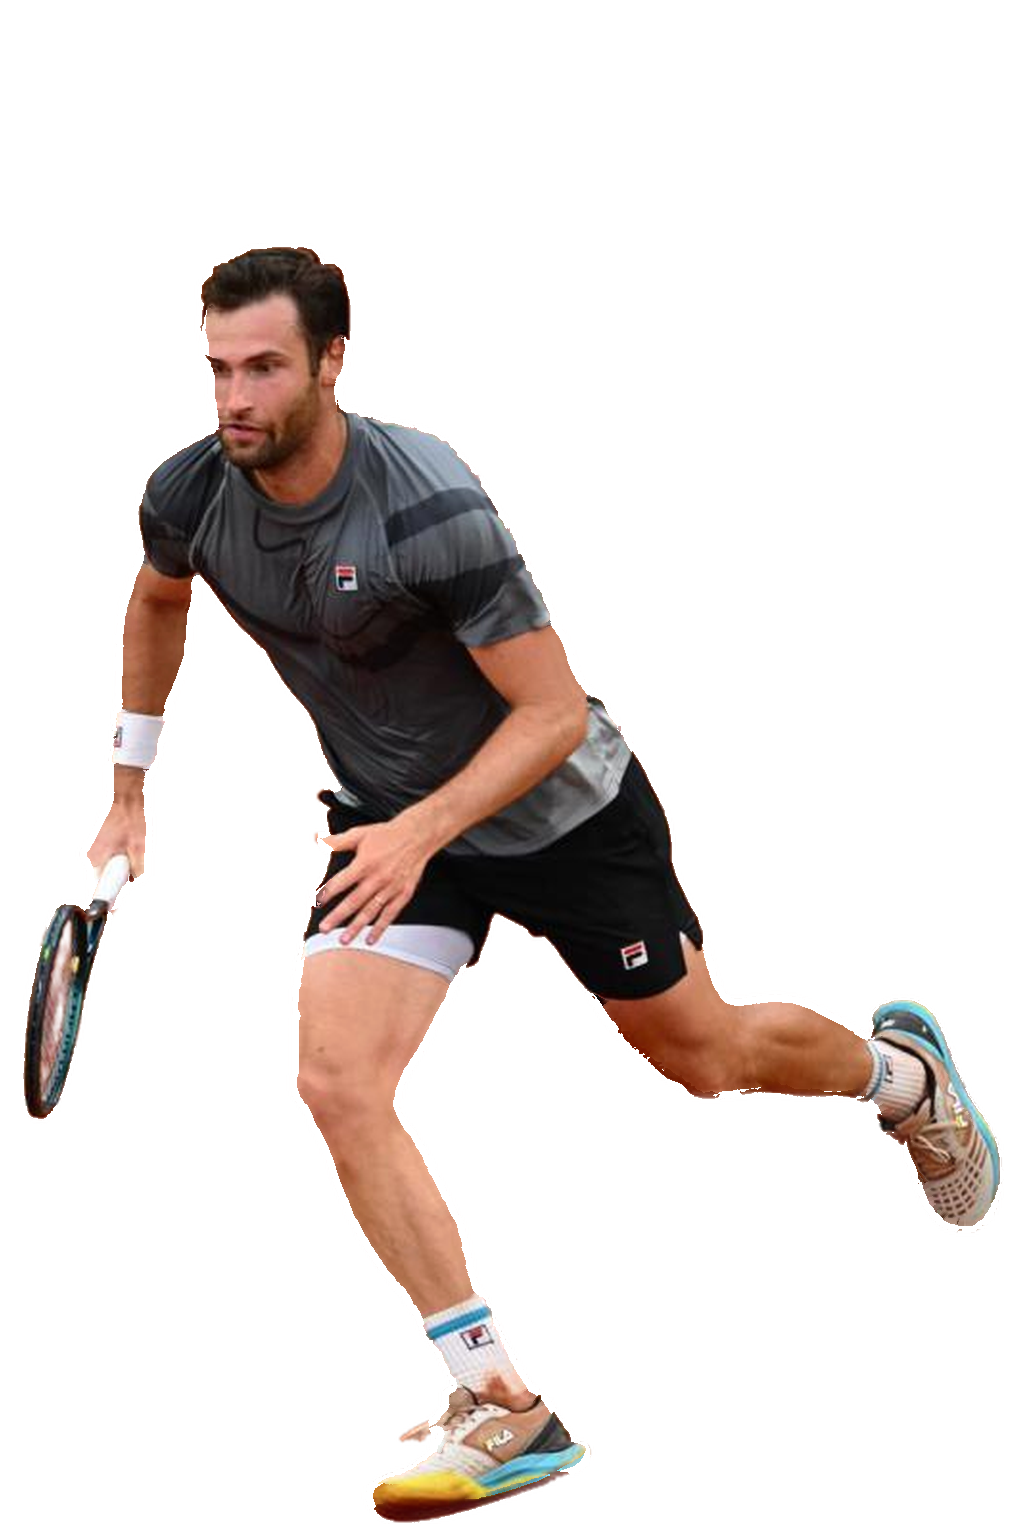
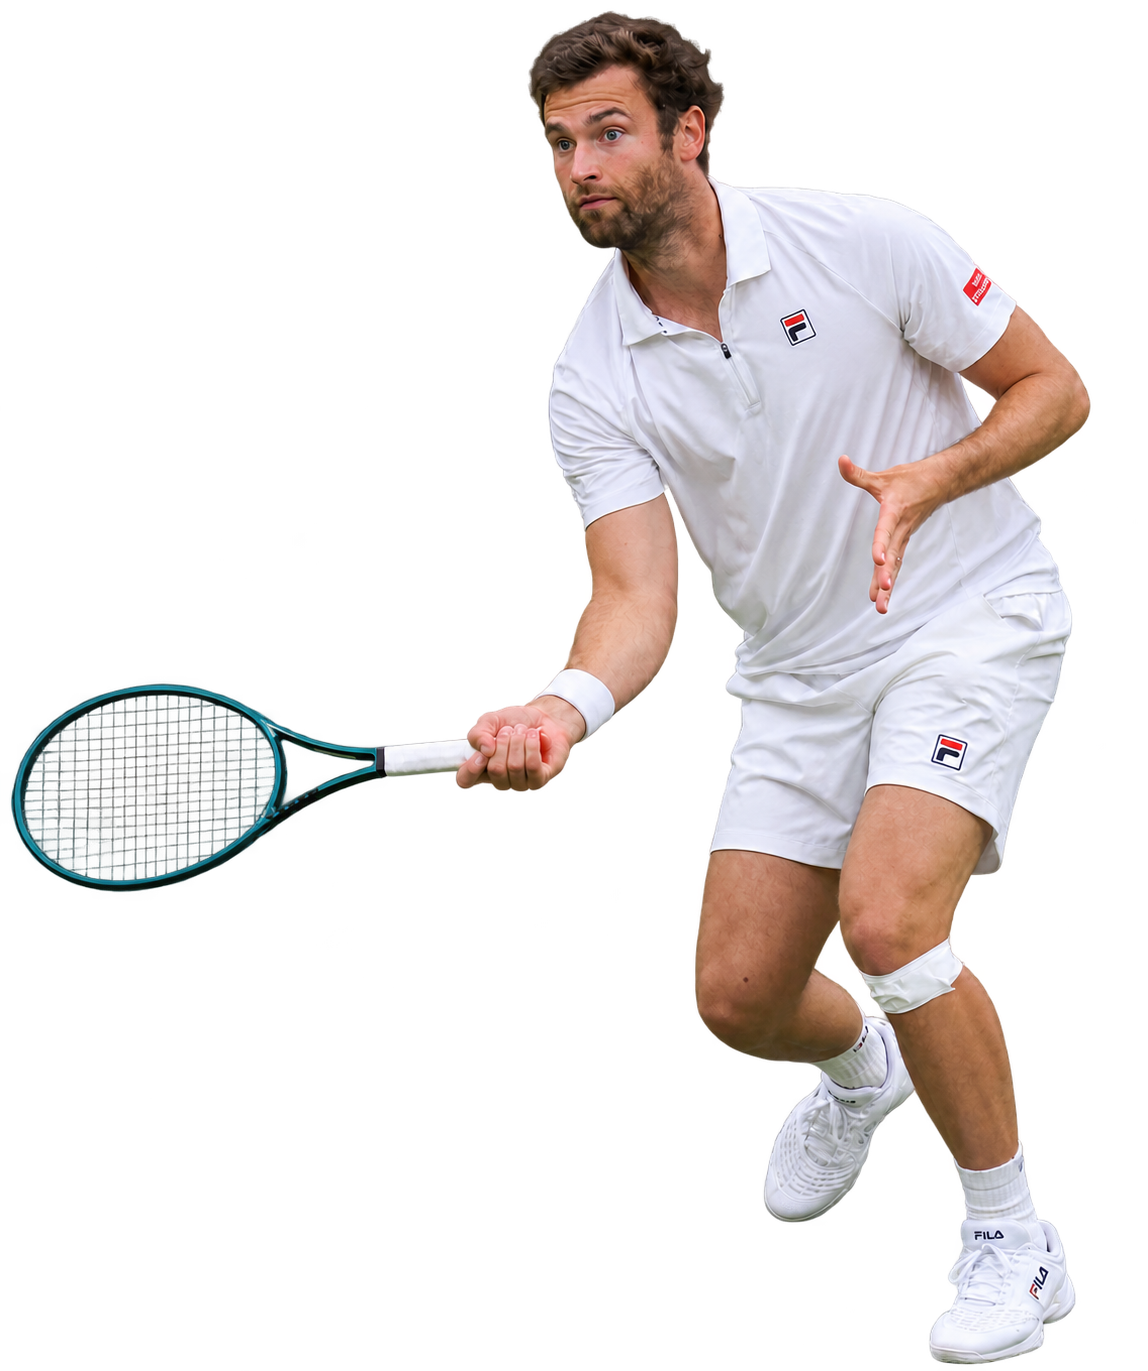
Replace Quentin Halys cutout with real Wimbledon photo

diff --git a/app/MatchDashboard.tsx b/app/MatchDashboard.tsx
@@ -619,7 +619,7 @@ function PlayerPortrait({id,name,side}:{id:number|null;name:string;side:"left"|"
   const shouldMirror=homeSide!=null&&homeSide!==side;
   const sources=[
     ...(top20Slug?[`/players/cutouts/top20/${top20Slug}.png${top20Slug==="rafael-jodar"?"?v=action-oct25":top20Slug==="casper-ruud"?"?v=real-photo-nov2":""}`]:[]),
-    ...(top40Slug?[`/players/cutouts/top40/${top40Slug}.png${top40Slug==="francisco-cerundolo"?"?v=real-photo-oct19":["alejandro-davidovich-fokina","quentin-halys","stefanos-tsitsipas"].includes(top40Slug)?"?v=edge-clean-nov3b":["luciano-darderi","tomas-machac","matteo-berrettini","andrey-rublev"].includes(top40Slug)?"?v=real-photo-nov2":""}`]:[]),
+    ...(top40Slug?[`/players/cutouts/top40/${top40Slug}.png${top40Slug==="francisco-cerundolo"?"?v=real-photo-oct19":top40Slug==="quentin-halys"?"?v=wimbledon-real-nov5":["alejandro-davidovich-fokina","stefanos-tsitsipas"].includes(top40Slug)?"?v=edge-clean-nov3b":["luciano-darderi","tomas-machac","matteo-berrettini","andrey-rublev"].includes(top40Slug)?"?v=real-photo-nov2":""}`]:[]),
     ...(top60Slug?[`/players/cutouts/top60/${top60Slug}.png${top60Slug==="daniel-merida-aguilar"?"?v=real-photo-nov2b":""}`]:[]),
     ...(top80Slug?[`/players/cutouts/top80/${top80Slug}.png?v=griekspoor2`]:[]),
     ...(top100Slug?[`/players/cutouts/top100/${top100Slug}.png?v=top100-5`]:[]),

diff --git a/scripts/extract_real_photo_cutouts.py b/scripts/extract_real_photo_cutouts.py
@@ -19,12 +19,13 @@ SOURCES = PROJECT / "assets" / "player_sources"
 DESTINATIONS = PROJECT / "web" / "public" / "players" / "cutouts"
 
 PHOTOS = {
+    # Quentin Halys is intentionally excluded: his Wimbledon 2024 photo uses
+    # a manually reviewed cutout; automatic extraction fills the racket with grass.
     "luciano-darderi": ("top40_references/luciano-darderi.jpg", "top40"),
     "daniel-merida-aguilar": ("top60_references/daniel-merida-eurosport2026.jpg", "top60"),
     "casper-ruud": ("top20_references/casper-ruud.jpg", "top20"),
     "tomas-machac": ("top40_references/tomas-machac-alternate.jpg", "top40"),
     "alejandro-davidovich-fokina": ("top40_references/alejandro-davidovich-fokina.jpg", "top40"),
-    "quentin-halys": ("top40_references/quentin-halys.jpg", "top40"),
     "matteo-berrettini": ("top40_references/matteo-berrettini.jpg", "top40"),
     "andrey-rublev": ("top40_references/rublev-usopen-03.jpg", "top40"),
     "stefanos-tsitsipas": ("top40_references/stefanos-tsitsipas-rome2023-proxy.jpg", "top40"),
@@ -140,7 +141,7 @@ def main(slugs: list[str]) -> None:
         output = normalize(extract(source, session))
         if slug == "stefanos-tsitsipas":
             output = clear_tsitsipas_clay_gap(output)
-        if slug in {"alejandro-davidovich-fokina", "quentin-halys", "stefanos-tsitsipas"}:
+        if slug in {"alejandro-davidovich-fokina", "stefanos-tsitsipas"}:
             output = clean_clay_fringe(output)
         destination = DESTINATIONS / group / f"{slug}.png"
         output.save(destination, optimize=True)
